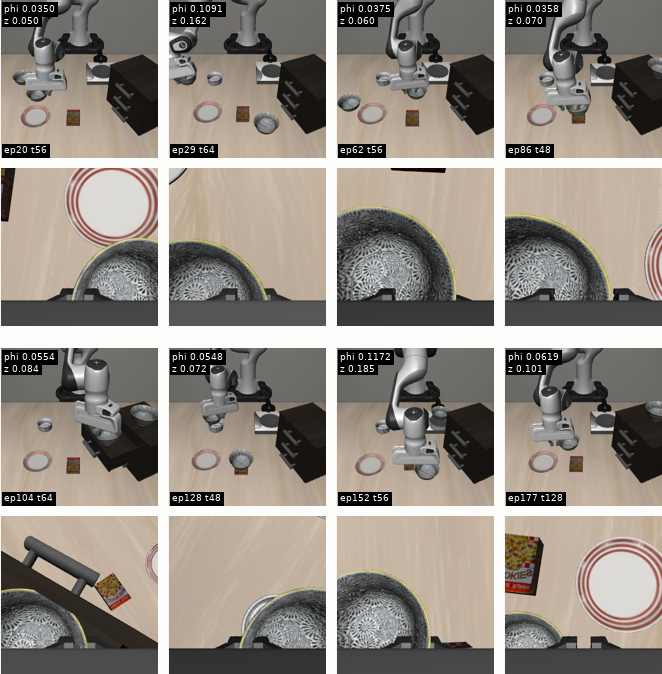
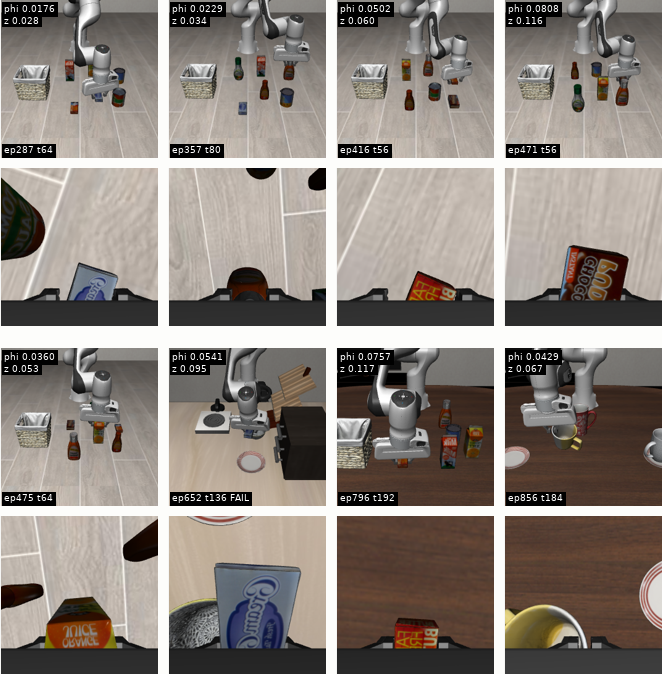
Pick OpenVLA general frames that show varied objects
The first eight task rows of those sheets are all bowls and plates, so
the general strips looked the same as the specialist ones. Choose task
rows that show the feature acting on different objects instead:
feature 293 on a chocolate box, a bottle, a juice carton and a mug
across different tables, and feature 731 on objects carried over the
basket. The specialists keep their bowl and plate frames, which is what
they fire on.

Claude-Session: https://claude.ai/code/session_01Aura5zYhZzKoYPVgTQqqVb

diff --git a/index.html b/index.html
@@ -698,12 +698,12 @@
         <figure class="feat">
           <figcaption class="feat-head">feature 293 <span>&middot; OpenVLA</span></figcaption>
           <img class="plot" src="media/portfolio_vla_features/f0293_openvla_general.png" alt="Feature 293 on OpenVLA: its strongest frame in each of eight tasks, main camera above the wrist camera in each block.">
-          <p class="caption">Strongest frame in each of eight tasks.</p>
+          <p class="caption">Eight different tasks: a chocolate box, a bottle, a juice carton, a mug, across different tables.</p>
         </figure>
         <figure class="feat">
           <figcaption class="feat-head">feature 731 <span>&middot; OpenVLA</span></figcaption>
           <img class="plot" src="media/portfolio_vla_features/f0731_openvla_general.png" alt="Feature 731 on OpenVLA: its strongest frame in each of eight tasks.">
-          <p class="caption">Strongest frame in each of eight tasks.</p>
+          <p class="caption">Eight different tasks, each an object carried over the basket.</p>
         </figure>
         <h4 class="feat-group">Specialist</h4>
         <figure class="feat">
@@ -719,12 +719,12 @@
         <figure class="feat">
           <figcaption class="feat-head">feature 928 <span>&middot; OpenVLA</span></figcaption>
           <img class="plot" src="media/portfolio_vla_features/f0928_openvla_specialist.png" alt="Feature 928 on OpenVLA: its strongest frame in each of eight tasks.">
-          <p class="caption">Strongest frame in each of eight tasks.</p>
+          <p class="caption">Bowls and plates in every task it acts on.</p>
         </figure>
         <figure class="feat">
           <figcaption class="feat-head">feature 1251 <span>&middot; OpenVLA</span></figcaption>
           <img class="plot" src="media/portfolio_vla_features/f1251_openvla_specialist.png" alt="Feature 1251 on OpenVLA: its strongest frame in each of eight tasks.">
-          <p class="caption">Strongest frame in each of eight tasks.</p>
+          <p class="caption">Bowls and plates in every task it acts on.</p>
         </figure>
       </div>
     </div>
